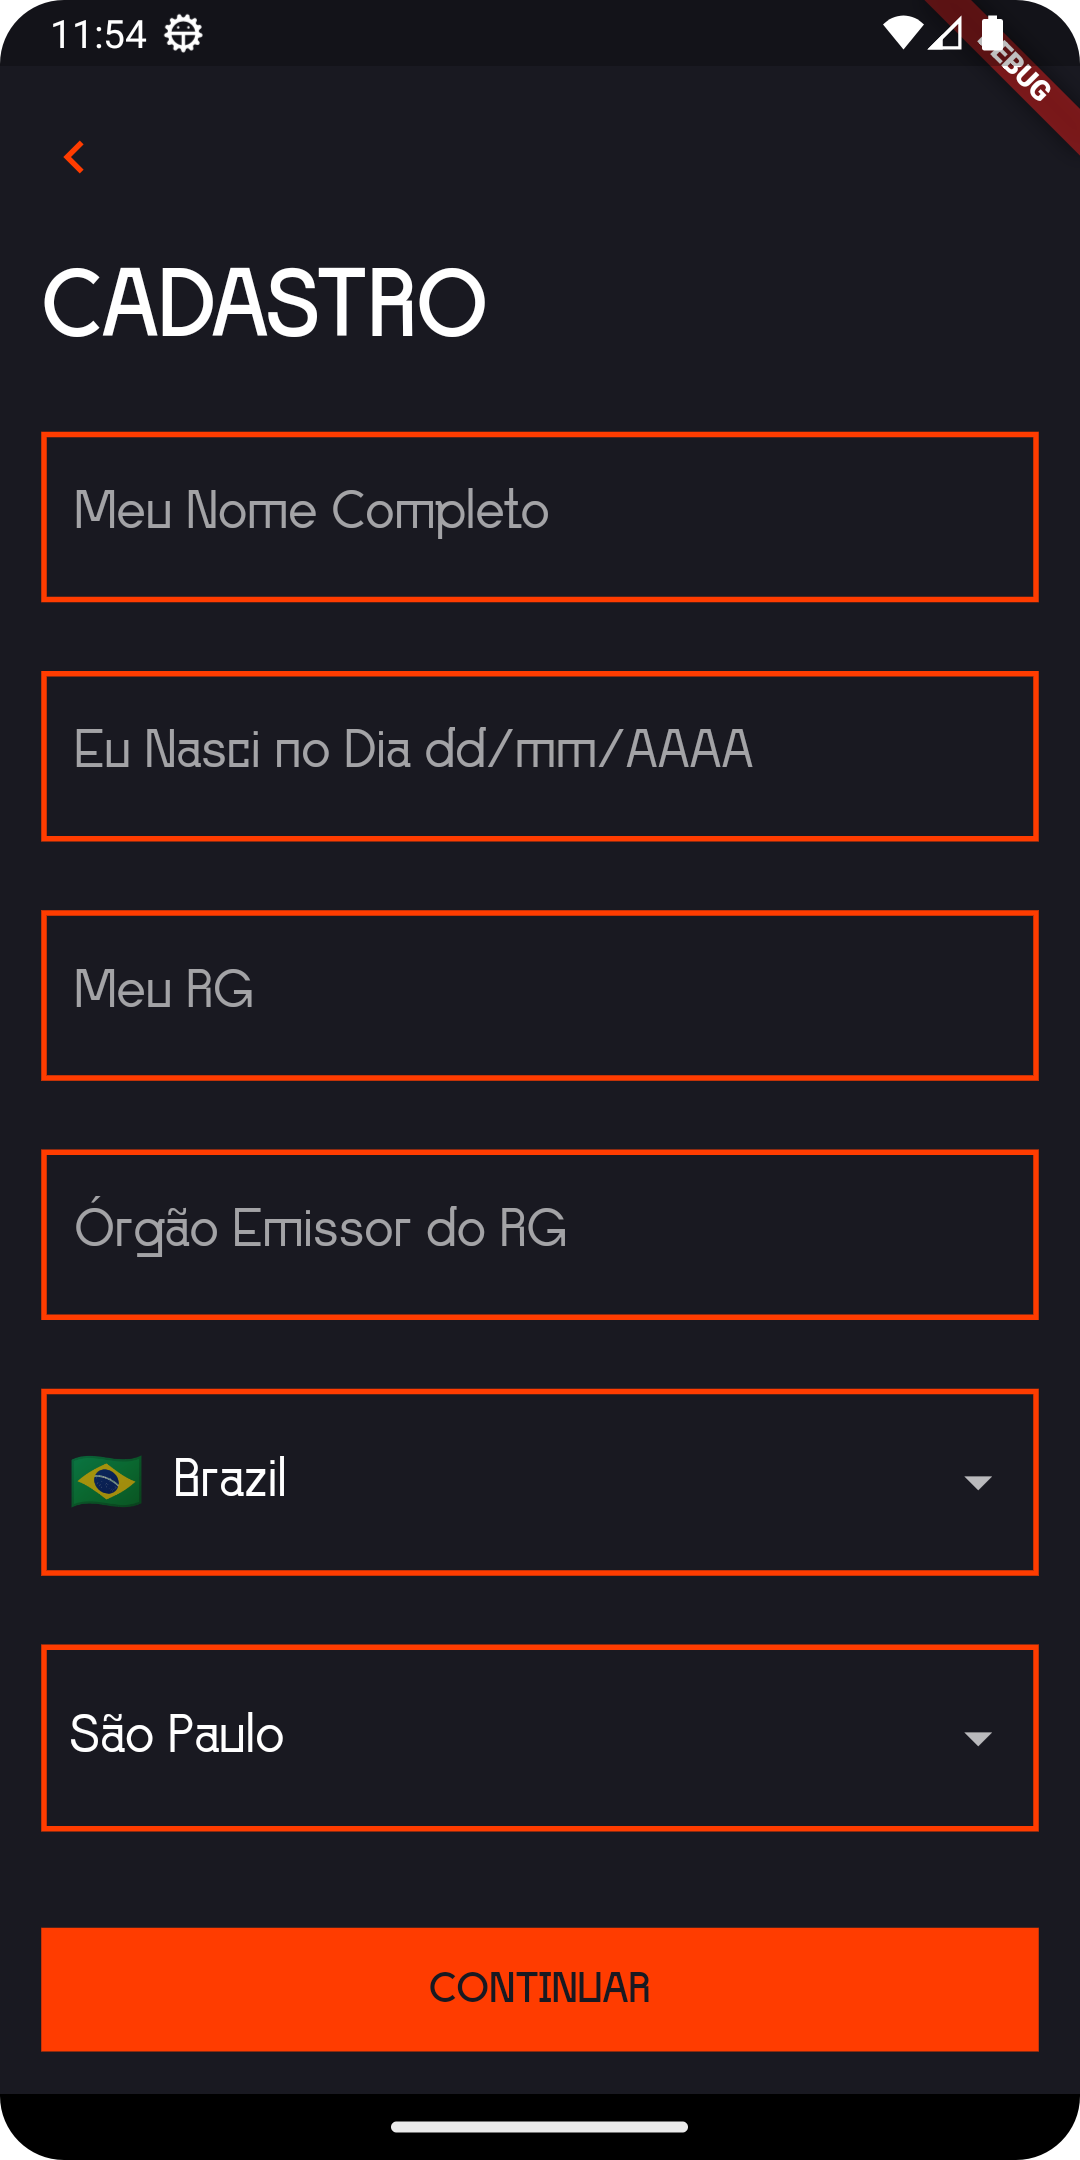
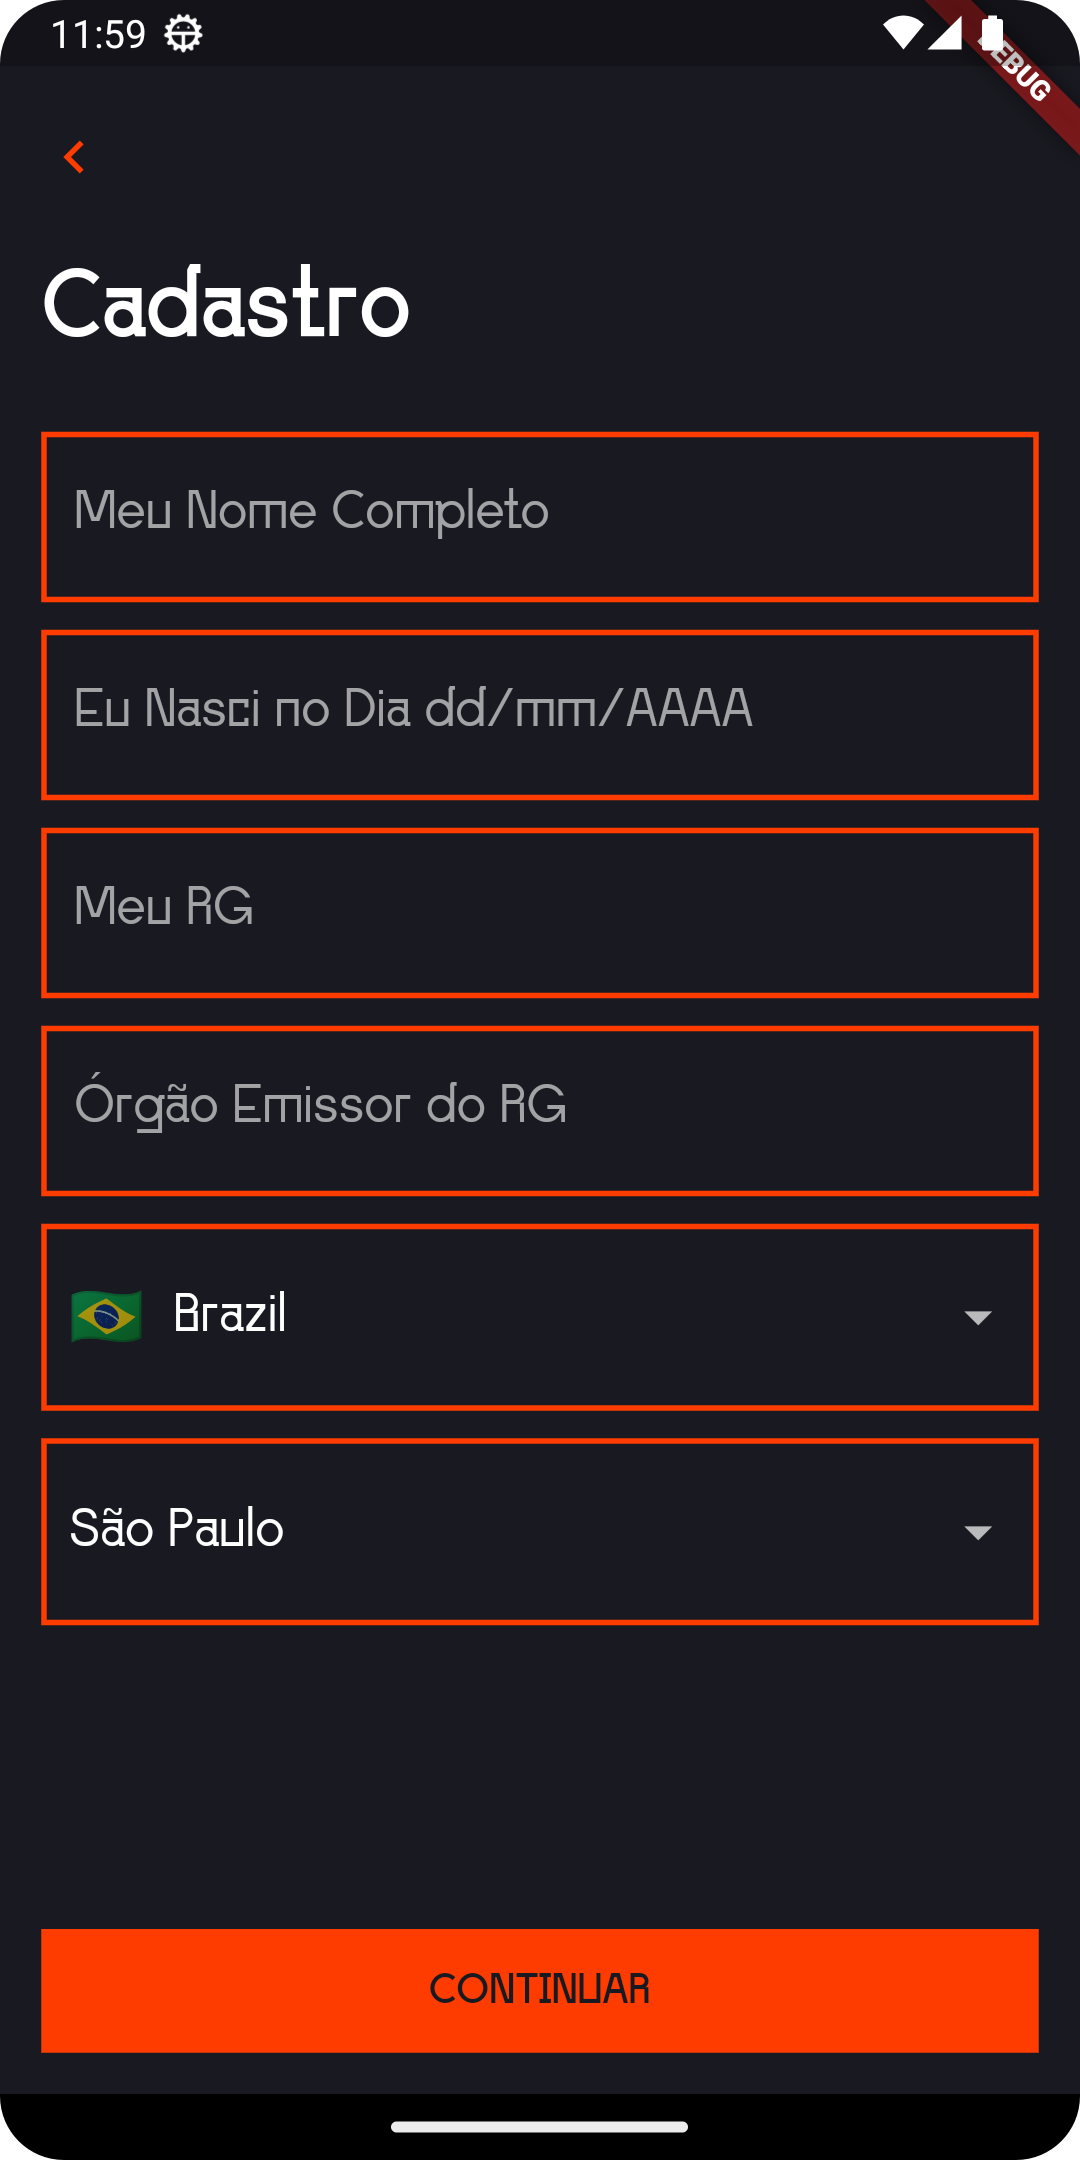
[LAYOUT]: update layout structure and spaces; remove unnused import

diff --git a/lib/login/sign_up/user_data_page.dart b/lib/login/sign_up/user_data_page.dart
@@ -7,7 +7,7 @@ import '../../shared/app_colors.dart';
 import '../../widgets/go_back_button.dart';
 
 const continueButton = 'CONTINUAR';
-const documentTitle = 'CADASTRO';
+const documentTitle = 'Cadastro';
 
 class UserDataPage extends StatefulWidget {
   const UserDataPage({super.key});
@@ -27,6 +27,7 @@ class _UserDataPageState extends State<UserDataPage> {
       body: Padding(
         padding: const EdgeInsets.fromLTRB(15, 45, 15, 15),
         child: Column(
+          mainAxisAlignment: MainAxisAlignment.spaceBetween,
           children: [
             Column(
               crossAxisAlignment: CrossAxisAlignment.start,
@@ -44,13 +45,13 @@ class _UserDataPageState extends State<UserDataPage> {
                 ),
                 const SizedBox(height: sizedBoxHeight),
                 const TextFieldWidget(hintText: 'Meu Nome Completo'),
-                const SizedBox(height: sizedBoxHeight),
+                const SizedBox(height: sizedBoxHeightMin),
                 const TextFieldWidget(hintText: 'Eu Nasci no Dia dd/mm/AAAA'),
-                const SizedBox(height: sizedBoxHeight),
+                const SizedBox(height: sizedBoxHeightMin),
                 const TextFieldWidget(hintText: 'Meu RG'),
-                const SizedBox(height: sizedBoxHeight),
+                const SizedBox(height: sizedBoxHeightMin),
                 const TextFieldWidget(hintText: 'Órgão Emissor do RG'),
-                const SizedBox(height: sizedBoxHeight),
+                const SizedBox(height: sizedBoxHeightMin),
                 CountryStatePicker(
                   stateLabel: Visibility(
                     visible: showLabel,
@@ -82,7 +83,7 @@ class _UserDataPageState extends State<UserDataPage> {
                   ),
                   itemTextStyle: kEditTextStyle,
                   hintTextStyle: kEditTextStyle,
-                  divider: const SizedBox(height: sizedBoxHeight),
+                  divider: const SizedBox(height: sizedBoxHeightMin),
                   onCountryChanged: (ct) => setState(() {
                     country = ct;
                     state = null;

diff --git a/lib/login/sign_up/nickname_page.dart b/lib/login/sign_up/nickname_page.dart
@@ -1,5 +1,4 @@
 import 'package:flutter/material.dart';
-import 'package:players_bank_redesign/login/sign_up/create_password_page.dart';
 import 'package:players_bank_redesign/login/sign_up/email_page.dart';
 import 'package:players_bank_redesign/shared/constants.dart';
 import 'package:players_bank_redesign/widgets/main_button.dart';
